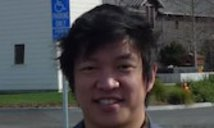
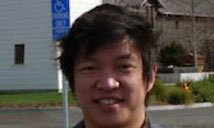
update and white balance heads

diff --git a/index.html b/index.html
@@ -3,15 +3,15 @@ layout: page
 title: Infomofo
 heads:
   - heads/illustration.png
-  - heads/head1.jpg
-  - heads/head2.jpg
-  - heads/head3.jpg
   - heads/head4.jpg
   - heads/head5.jpg
   - heads/head6.jpg
   - heads/crosby.png
   - heads/eclipse.png
   - heads/beach.JPG
+  - heads/grid.png
+  - heads/oh_hat.jpg
+  - heads/anna_wedding.jpg
 tops:
   - tops/illustration.png
   - tops/shirt1.jpg
